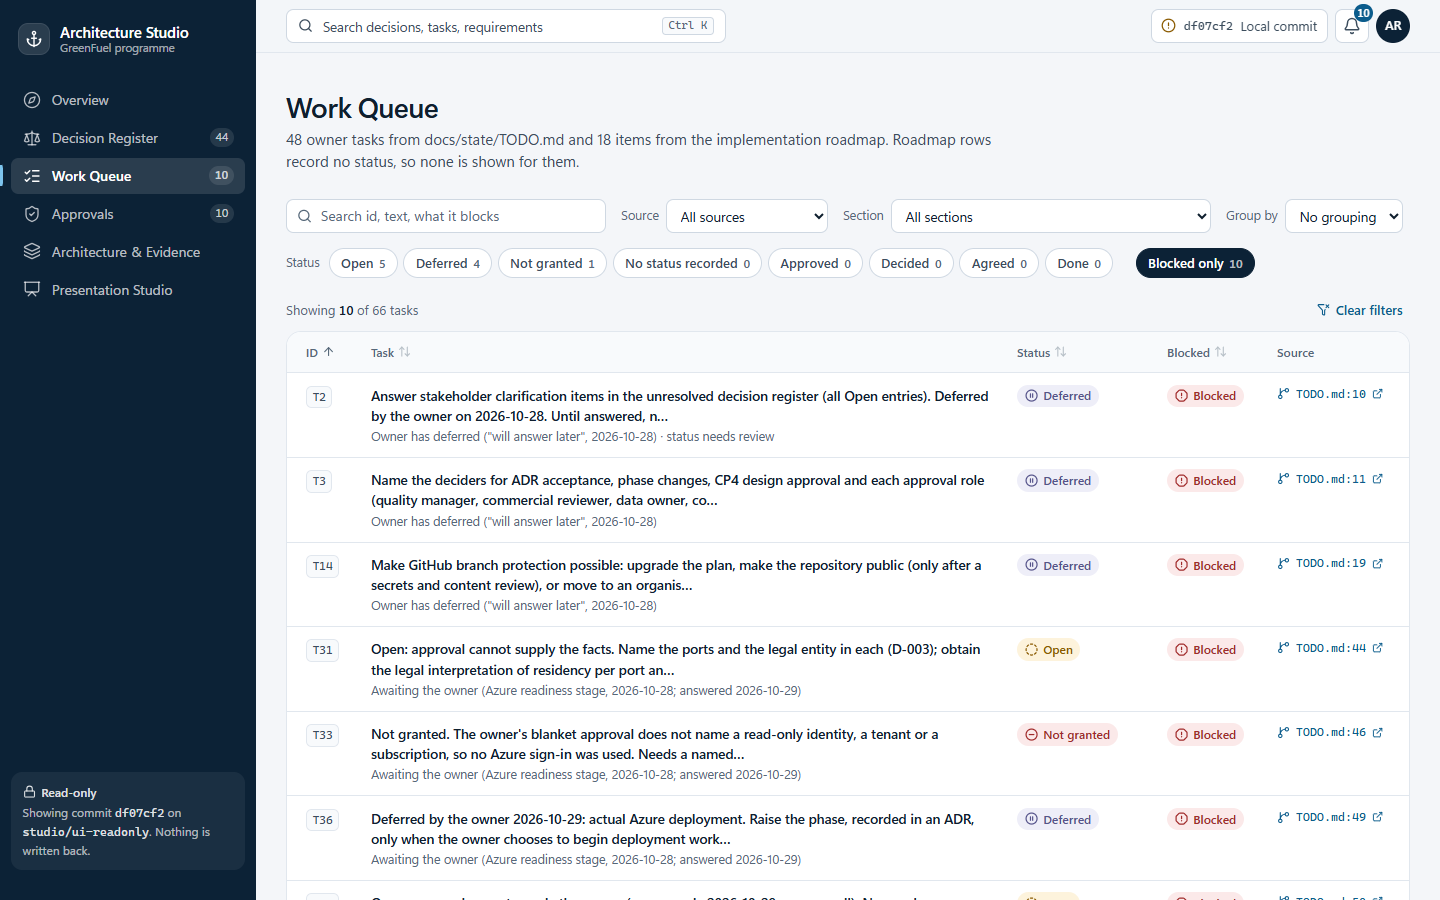
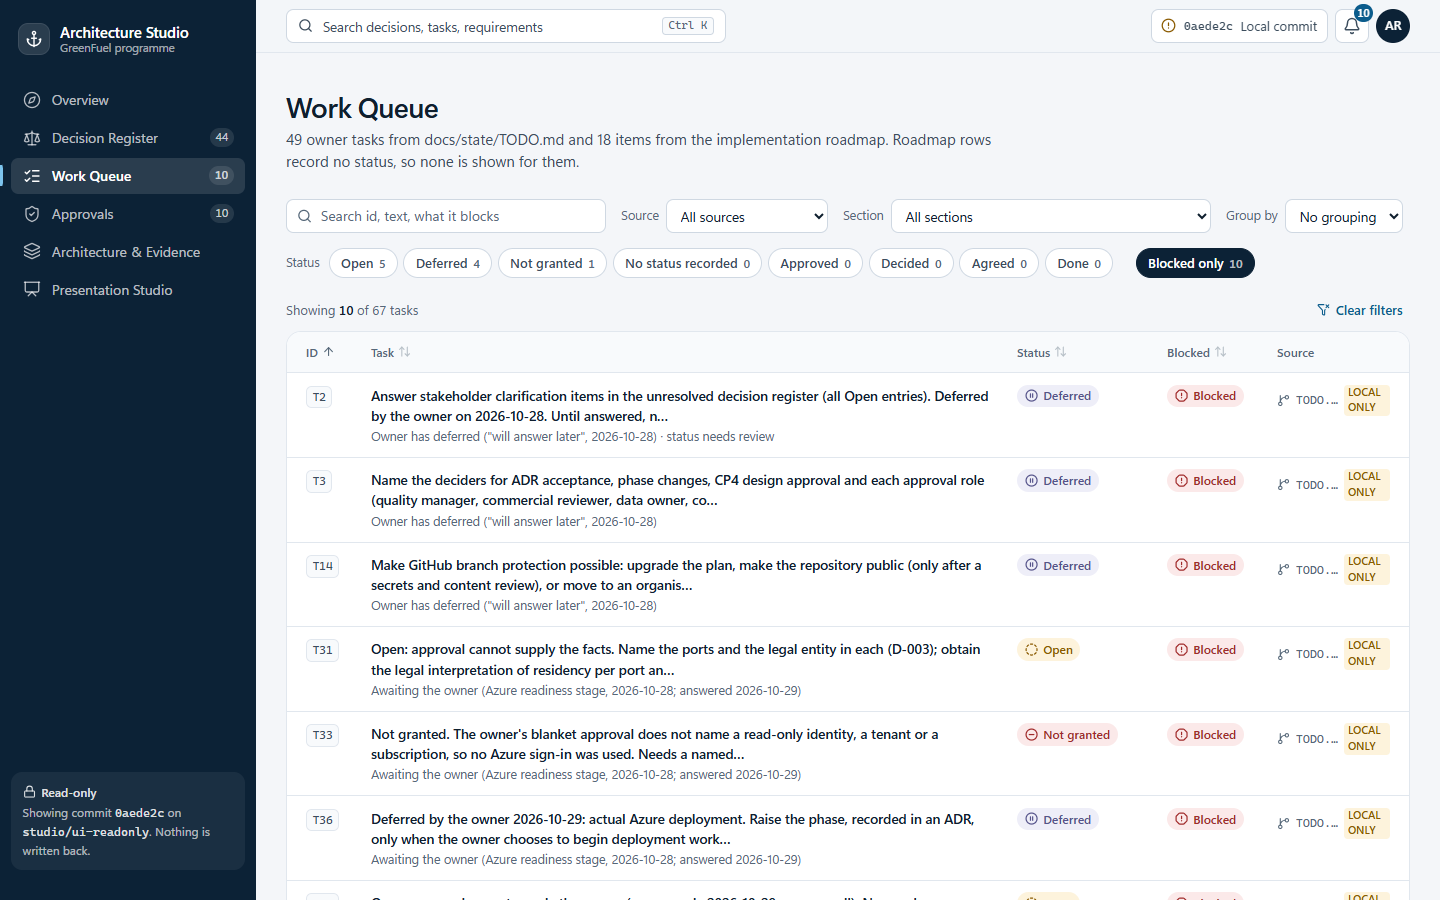
Studio: final screenshots and test evidence in the report

diff --git a/docs/architecture-studio/UI-READONLY-REPORT.md b/docs/architecture-studio/UI-READONLY-REPORT.md
@@ -75,6 +75,9 @@ Run on 2026-10-29, Windows, Node 22.23.4, Microsoft Edge (Chromium), commands fr
 | `npm run build` | compiled; 16 routes |
 | `npm run test:e2e` | **67 of 67 pass** (3.3 minutes) |
 | `node harness/scripts/validate-harness.mjs` | OK |
+| `npm test` at the repository root | 1085 of 1085 pass (the Studio's own tests are kept out of this run) |
+
+Screenshots were captured with the sidebar reading commit `0aede2c`, the commit that added the Studio.
 
 Browser tests by file: `studio.spec.ts` 18 (navigation, figures, register, queue, approvals, architecture, presentation), `shell.spec.ts` 10 (search, notifications, sync, identity), `states.spec.ts` 11 (errors, empty, loading, hardening), `a11y-responsive.spec.ts` 18, `readonly.spec.ts` 6, `screenshots.spec.ts` 4.
 
